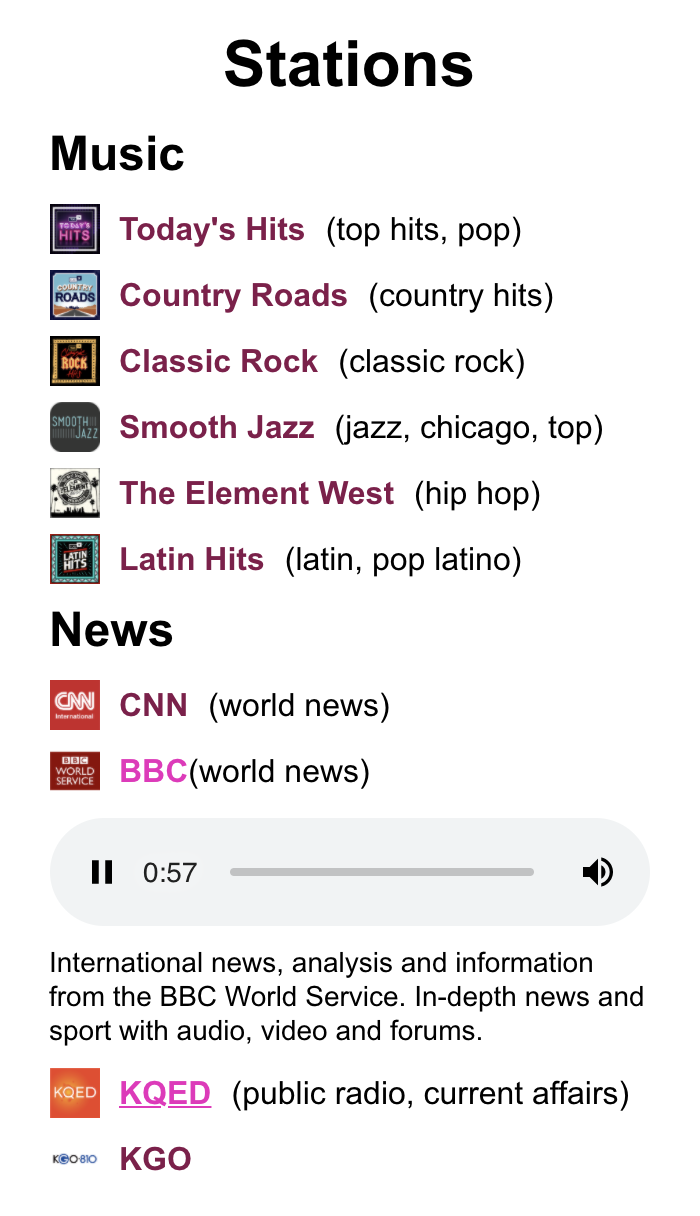
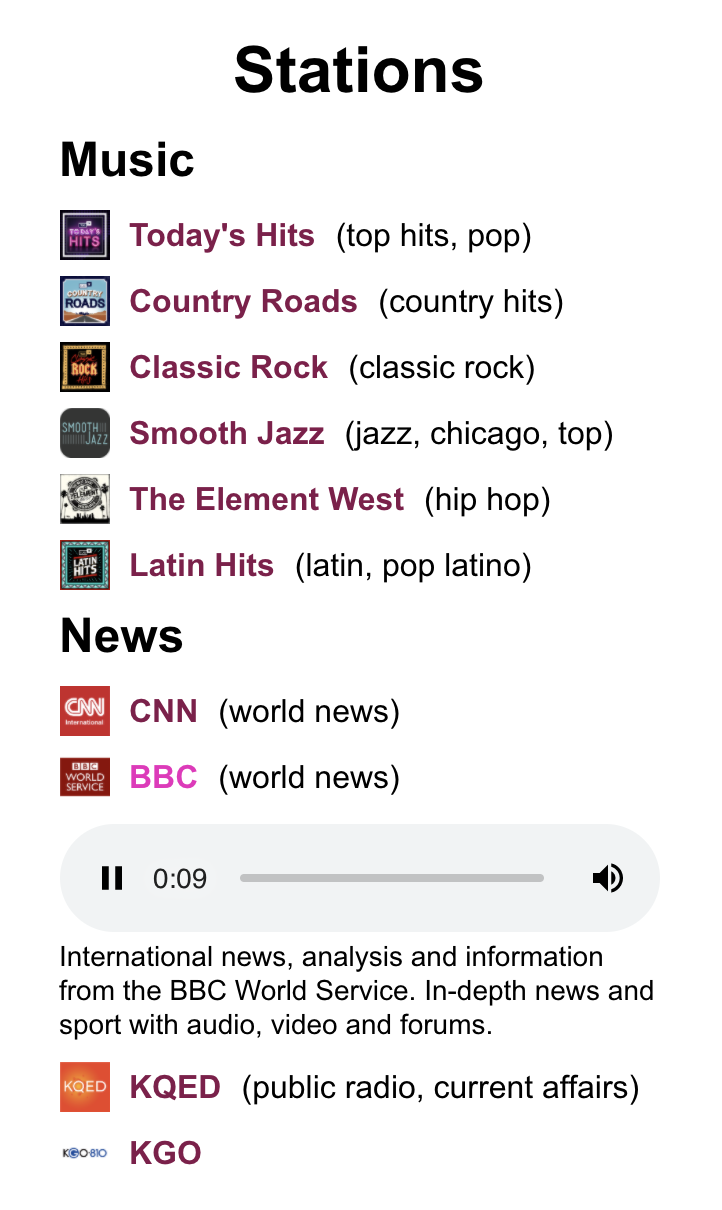
css adjustments

diff --git a/src/App.css b/src/App.css
@@ -36,6 +36,7 @@ p {margin: 10px 0 10px;}
 }
 
 .description {
+  margin-top: 4px;
   font-size: 14px;
 }
 
@@ -46,6 +47,7 @@ audio {
 .selected {
   font-weight: bold;
   color: #F012BE;
+  padding-right: 10px;
 }
 
 img {
